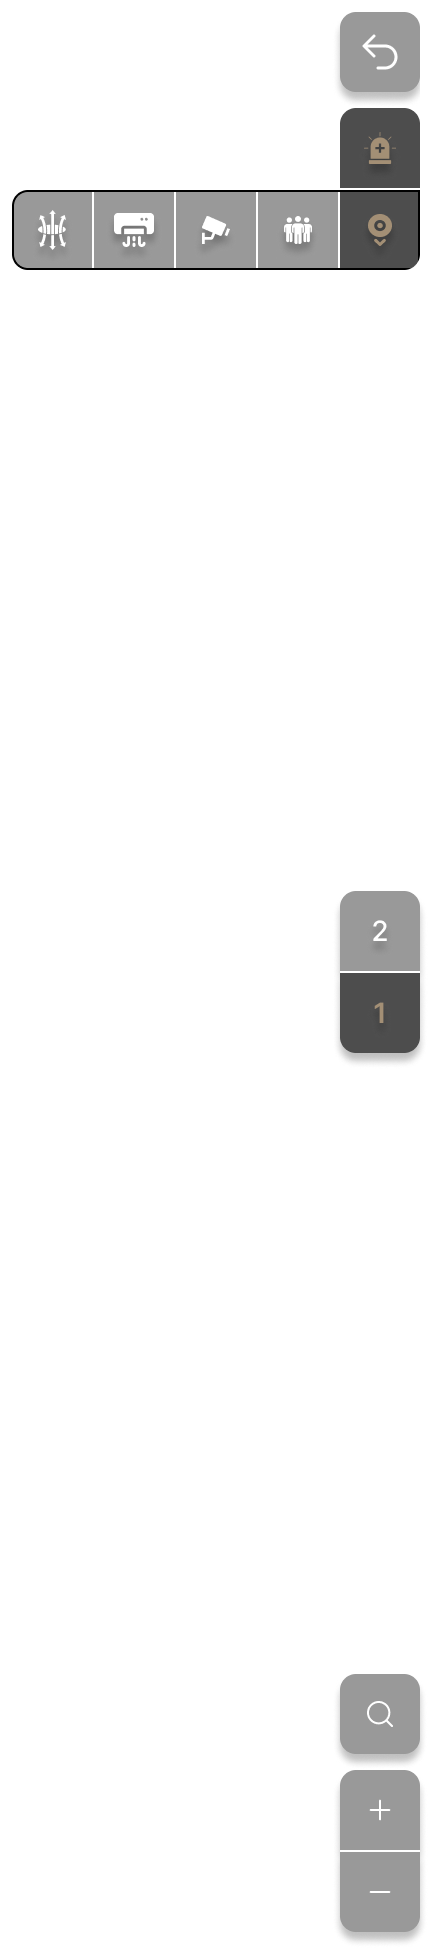
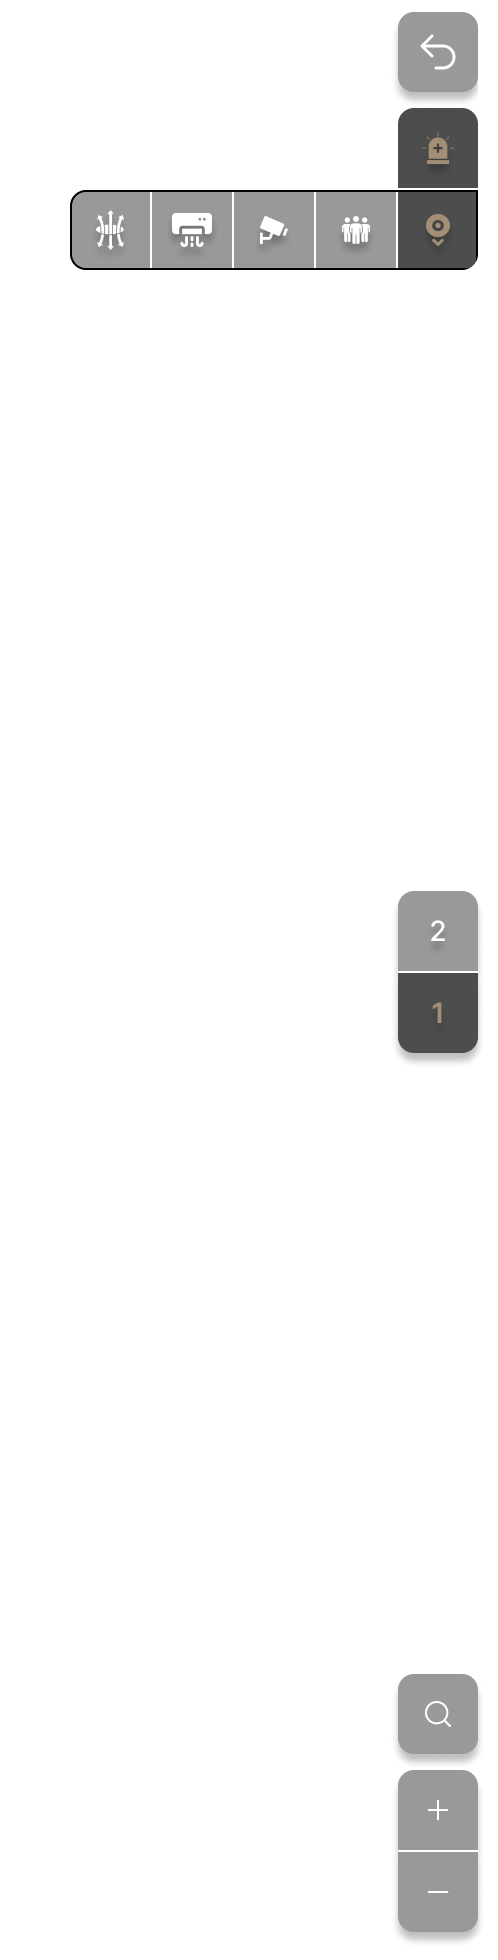
Docs: size toolbar figures to match the CCTV panel height in the interface guide

diff --git a/src/app/globals.css b/src/app/globals.css
@@ -263,6 +263,7 @@ article ul > li > p {
 .doc-split-media.size-half { flex-basis: 50%; max-width: 50%; }
 .doc-split-media.size-third { flex-basis: 32%; max-width: 32%; }
 .doc-split-media.size-narrow { flex-basis: 6%; max-width: 6%; min-width: 48px; }
+.doc-split-media.size-tool { flex-basis: 26%; max-width: 26%; }
 .doc-split-media * { max-width: 100% !important; }
 .doc-split-media canvas, .doc-split-media img { width: 100% !important; height: auto !important; }
 
